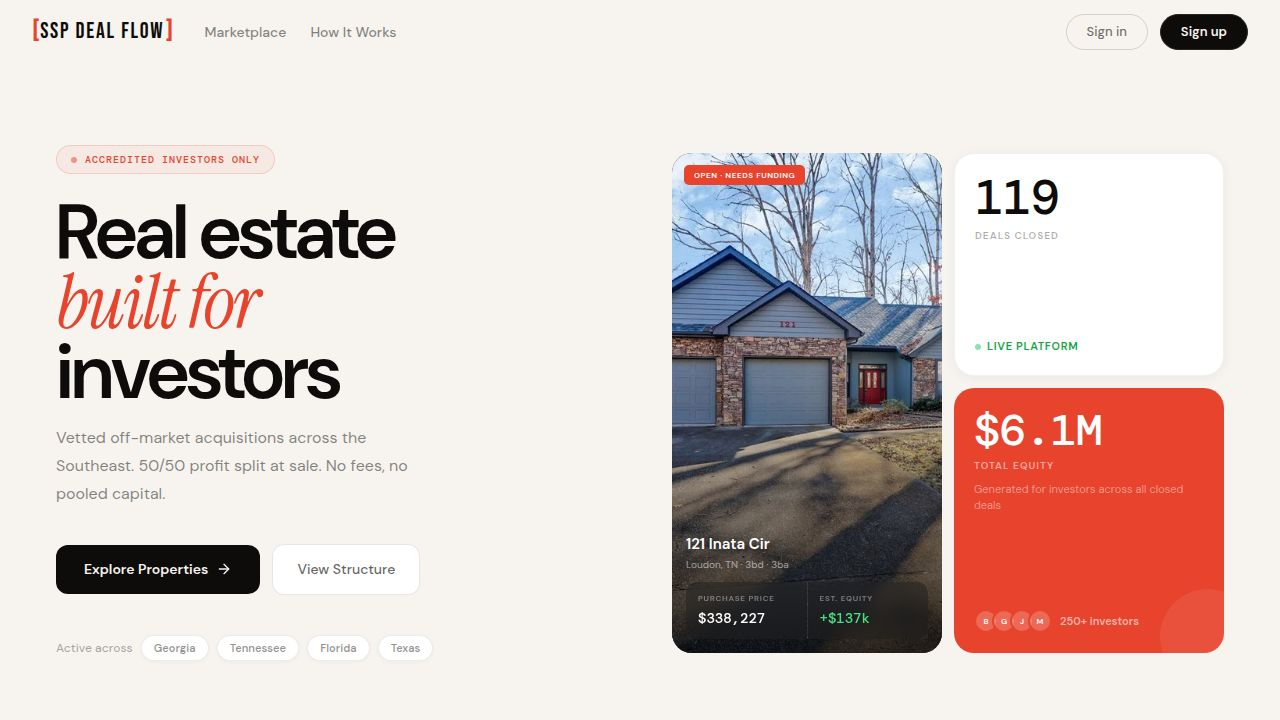
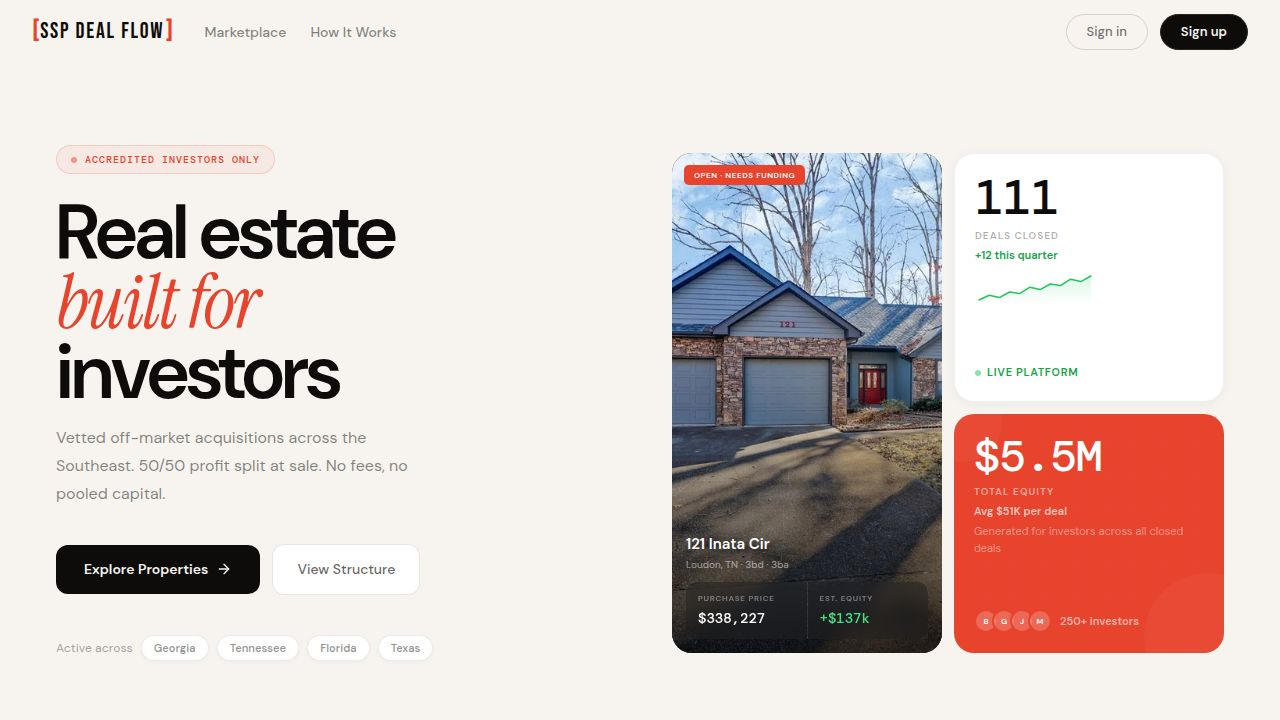
Task #4: Enhance hero stat cards
Changes made to client/src/pages/Home.tsx:

1. Count-up animation: Added a useCountUp hook using IntersectionObserver
   that triggers an animated count from 0 to the target value when the
   card scrolls into view. Uses cubic ease-out for smooth deceleration.
   Applied to both the "119" deals count and "$6.1M" equity amount.

2. Deals Closed card enhancements:
   - Added inline SVG sparkline showing a gentle upward trend with
     gradient fill beneath the line, spanning the full card width
   - Added secondary stat line "+12 this quarter" in green below the label
   - Added data-testid attributes for interactive/display elements

3. Total Equity card enhancements:
   - Added secondary breakdown stat "Avg $51K per deal" beneath the label
   - Replaced single decorative circle with a subtle grid pattern (SVG
     pattern overlay at low opacity) plus additional decorative circles
     for visual texture
   - Content wrapped in relative z-10 to layer above the background pattern
   - Added data-testid attributes

4. Hover interactions on both cards:
   - Gentle scale transform (1.02x) on hover
   - Shadow lift on hover (increased shadow with smooth 300ms transition)
   - cursor-default to indicate non-clickable interactive feel

Fix: Updated sparkline SVG to use w-full class and preserveAspectRatio="none"
so the trend line spans the full width of the Deals Closed card.

Replit-Task-Id: 5d8abecf-bc4a-4901-b977-8de1520a4c81

diff --git a/client/src/pages/Home.tsx b/client/src/pages/Home.tsx
@@ -3,7 +3,7 @@ import { Link, useLocation } from "wouter";
 import { useProperties } from "@/hooks/useProperties";
 import { useAuth } from "@/hooks/useAuth";
 import { ArrowRight, TrendingUp, Loader2 } from "lucide-react";
-import { useState } from "react";
+import { useState, useEffect, useRef } from "react";
 import { apiRequest } from "@/lib/queryClient";
 import { posthog } from "@/lib/posthog";
 
@@ -11,6 +11,69 @@ function CheckIcon({ className }: { className?: string }) {
   return (
     <svg className={className} viewBox="0 0 24 24" fill="none" stroke="currentColor" strokeWidth="2.5" aria-hidden>
       <path strokeLinecap="round" strokeLinejoin="round" d="M5 13l4 4L19 7" />
+    </svg>
+  );
+}
+
+function useCountUp(end: number, duration = 1800, prefix = "", suffix = "") {
+  const [display, setDisplay] = useState(prefix + "0" + suffix);
+  const ref = useRef<HTMLDivElement>(null);
+  const triggered = useRef(false);
+
+  useEffect(() => {
+    const el = ref.current;
+    if (!el) return;
+    const observer = new IntersectionObserver(
+      ([entry]) => {
+        if (entry.isIntersecting && !triggered.current) {
+          triggered.current = true;
+          const start = performance.now();
+          const tick = (now: number) => {
+            const t = Math.min((now - start) / duration, 1);
+            const eased = 1 - Math.pow(1 - t, 3);
+            const val = Math.round(eased * end);
+            if (end >= 1000000) {
+              setDisplay(prefix + (val / 1000000).toFixed(1) + "M" + suffix);
+            } else {
+              setDisplay(prefix + val.toLocaleString() + suffix);
+            }
+            if (t < 1) requestAnimationFrame(tick);
+          };
+          requestAnimationFrame(tick);
+        }
+      },
+      { threshold: 0.3 }
+    );
+    observer.observe(el);
+    return () => observer.disconnect();
+  }, [end, duration, prefix, suffix]);
+
+  return { ref, display };
+}
+
+function Sparkline() {
+  const points = [12, 18, 15, 22, 20, 28, 25, 32, 30, 38, 35, 42];
+  const w = 120, h = 32, px = 4, py = 4;
+  const max = Math.max(...points);
+  const min = Math.min(...points);
+  const coords = points.map((v, i) => {
+    const x = px + (i / (points.length - 1)) * (w - 2 * px);
+    const y = py + ((max - v) / (max - min)) * (h - 2 * py);
+    return `${x},${y}`;
+  });
+  const line = coords.join(" ");
+  const areaPath = `M${coords[0]} ${coords.join(" L")} L${w - px},${h} L${px},${h} Z`;
+
+  return (
+    <svg viewBox={`0 0 ${w} ${h}`} className="mt-2 w-full" preserveAspectRatio="none" style={{ height: `${h}px` }}>
+      <defs>
+        <linearGradient id="sparkFill" x1="0" y1="0" x2="0" y2="1">
+          <stop offset="0%" stopColor="#22c55e" stopOpacity="0.15" />
+          <stop offset="100%" stopColor="#22c55e" stopOpacity="0" />
+        </linearGradient>
+      </defs>
+      <path d={areaPath} fill="url(#sparkFill)" />
+      <polyline points={line} fill="none" stroke="#22c55e" strokeWidth="1.5" strokeLinecap="round" strokeLinejoin="round" />
     </svg>
   );
 }
@@ -53,6 +116,9 @@ export default function Home() {
     if (amount >= 1000) return `$${(amount / 1000).toFixed(0)}k`;
     return `$${amount}`;
   };
+
+  const dealsCountUp = useCountUp(119);
+  const equityCountUp = useCountUp(6100000, 2000, "$");
 
   const handleLeadSubmit = async () => {
     if (!formData.firstName || !formData.email) return;
@@ -210,29 +276,41 @@ export default function Home() {
               );
             })()}
 
-            <div className="bg-white border border-[rgba(13,12,11,0.06)] rounded-[20px] p-5 flex flex-col justify-between shadow-[0_2px_12px_rgba(0,0,0,0.05)]">
+            <div ref={dealsCountUp.ref} className="bg-white border border-[rgba(13,12,11,0.06)] rounded-[20px] p-5 flex flex-col justify-between shadow-[0_2px_12px_rgba(0,0,0,0.05)] transition-all duration-300 hover:scale-[1.02] hover:shadow-[0_8px_30px_rgba(0,0,0,0.10)] cursor-default" data-testid="card-deals-closed">
               <div>
-                <div className="font-mono text-[48px] font-medium text-[#0d0c0b] leading-none tracking-[-0.02em] mb-1.5">119</div>
+                <div className="font-mono text-[48px] font-medium text-[#0d0c0b] leading-none tracking-[-0.02em] mb-1.5" data-testid="text-deals-count">{dealsCountUp.display}</div>
                 <div className="text-[10px] font-semibold tracking-[0.1em] uppercase text-[rgba(13,12,11,0.35)]">Deals Closed</div>
+                <div className="text-[11px] font-semibold text-[#16a34a] mt-1" data-testid="text-deals-secondary">+12 this quarter</div>
+                <Sparkline />
               </div>
-              <div className="flex items-center gap-1.5">
+              <div className="flex items-center gap-1.5 mt-2">
                 <span className="w-1.5 h-1.5 bg-[#22c55e] rounded-full animate-pulse flex-shrink-0" />
                 <span className="text-[11px] font-semibold text-[#16a34a] tracking-[0.06em] uppercase">Live Platform</span>
               </div>
             </div>
 
-            <div className="bg-[#e8432d] rounded-[20px] p-5 flex flex-col justify-between relative overflow-hidden">
-              <div className="absolute -bottom-8 -right-8 w-24 h-24 bg-[rgba(255,255,255,0.08)] rounded-full pointer-events-none" />
-              <div>
-                <div className="font-mono text-[44px] font-medium text-white leading-none tracking-[-0.02em] mb-1.5">
-                  {formatMoney(totalEquity) === "$0" ? "$6.1M" : formatMoney(totalEquity)}
+            <div ref={equityCountUp.ref} className="bg-[#e8432d] rounded-[20px] p-5 flex flex-col justify-between relative overflow-hidden transition-all duration-300 hover:scale-[1.02] hover:shadow-[0_8px_30px_rgba(232,67,45,0.35)] cursor-default" data-testid="card-total-equity">
+              <svg className="absolute inset-0 w-full h-full pointer-events-none opacity-[0.06]" xmlns="http://www.w3.org/2000/svg">
+                <defs>
+                  <pattern id="topoGrid" width="30" height="30" patternUnits="userSpaceOnUse">
+                    <path d="M 30 0 L 0 0 0 30" fill="none" stroke="white" strokeWidth="0.5" />
+                  </pattern>
+                </defs>
+                <rect width="100%" height="100%" fill="url(#topoGrid)" />
+              </svg>
+              <div className="absolute -bottom-12 -right-12 w-32 h-32 bg-[rgba(255,255,255,0.04)] rounded-full pointer-events-none" />
+              <div className="absolute -top-8 -left-8 w-20 h-20 bg-[rgba(255,255,255,0.04)] rounded-full pointer-events-none" />
+              <div className="relative z-10">
+                <div className="font-mono text-[44px] font-medium text-white leading-none tracking-[-0.02em] mb-1.5" data-testid="text-equity-amount">
+                  {equityCountUp.display}
                 </div>
-                <div className="text-[10px] font-semibold tracking-[0.1em] uppercase text-[rgba(255,255,255,0.55)] mb-2">Total Equity</div>
-                <div className="text-[11px] text-[rgba(255,255,255,0.45)] leading-[1.5]">
+                <div className="text-[10px] font-semibold tracking-[0.1em] uppercase text-[rgba(255,255,255,0.55)] mb-1">Total Equity</div>
+                <div className="text-[11px] font-semibold text-[rgba(255,255,255,0.7)]" data-testid="text-equity-secondary">Avg $51K per deal</div>
+                <div className="text-[11px] text-[rgba(255,255,255,0.45)] leading-[1.5] mt-1">
                   Generated for investors across all closed deals
                 </div>
               </div>
-              <div className="flex items-center gap-2">
+              <div className="flex items-center gap-2 relative z-10">
                 <div className="flex items-center">
                   {["B", "G", "J", "M"].map((l, i) => (
                     <div key={l} className="w-6 h-6 rounded-full bg-[rgba(255,255,255,0.2)] border-2 border-[#e8432d] flex items-center justify-center text-[8px] font-bold text-white flex-shrink-0" style={{ marginLeft: i === 0 ? 0 : -6 }}>
